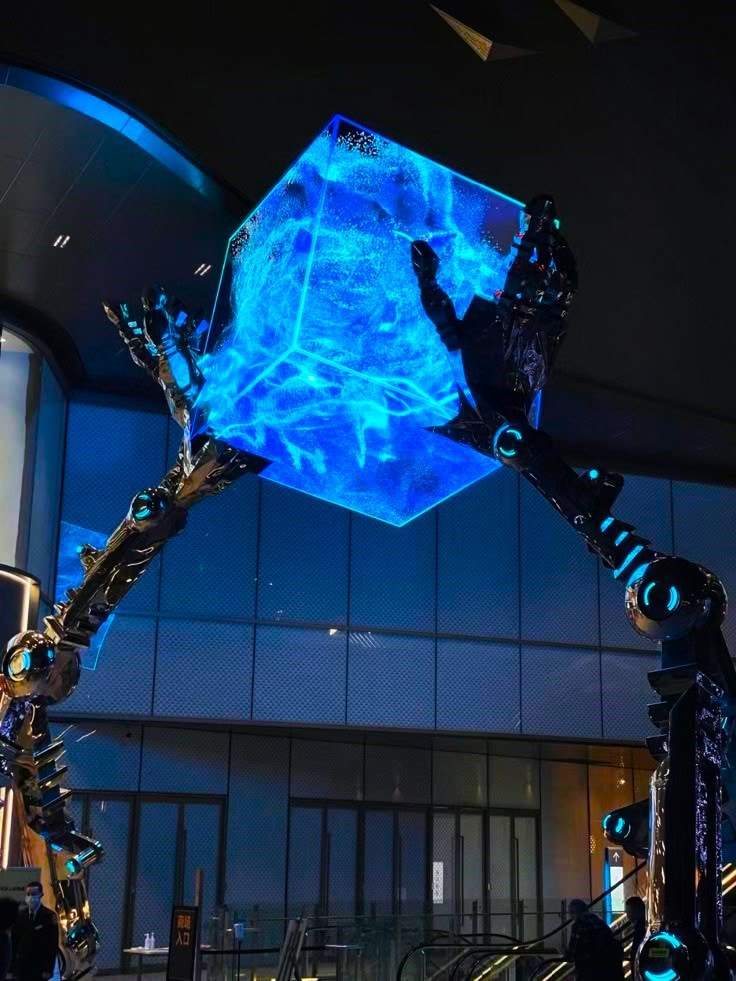
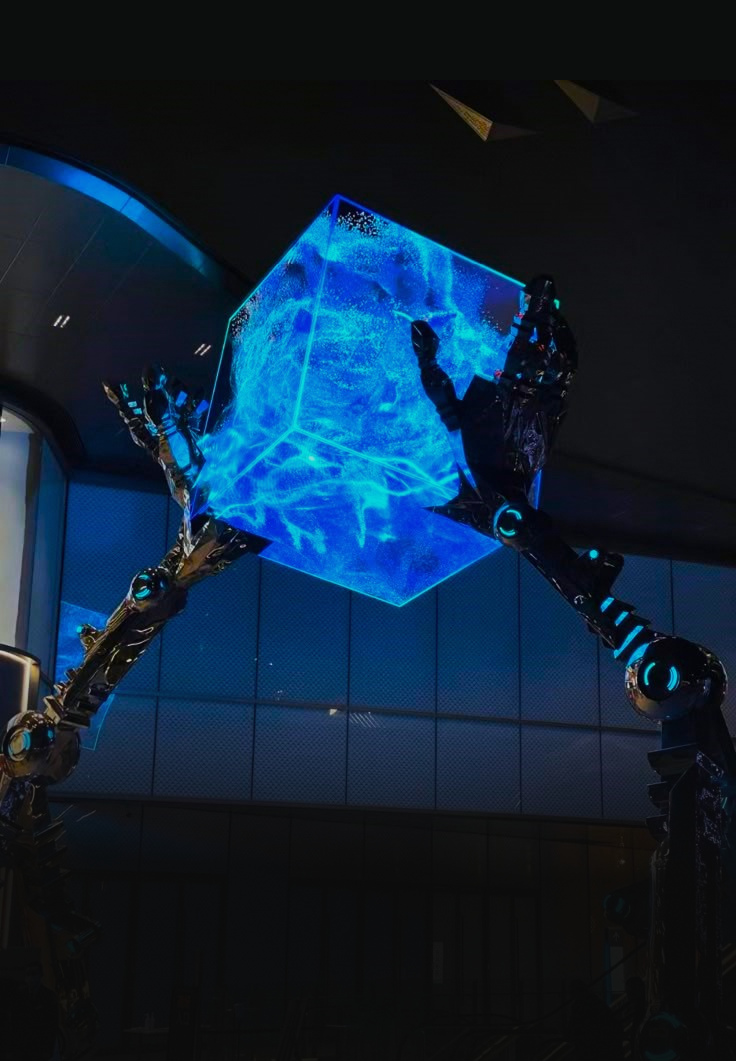
go

diff --git a/src/index.css b/src/index.css
@@ -1382,7 +1382,7 @@ background-size: cover;
   background-image: url(assets/ngt.jpg);
   background-size: cover;
   background-repeat: no-repeat;
-  background-position: 60%;
+  background-position: center;
 }
 .bg-evnt{
   background-image: url(assets/event.jpg);
